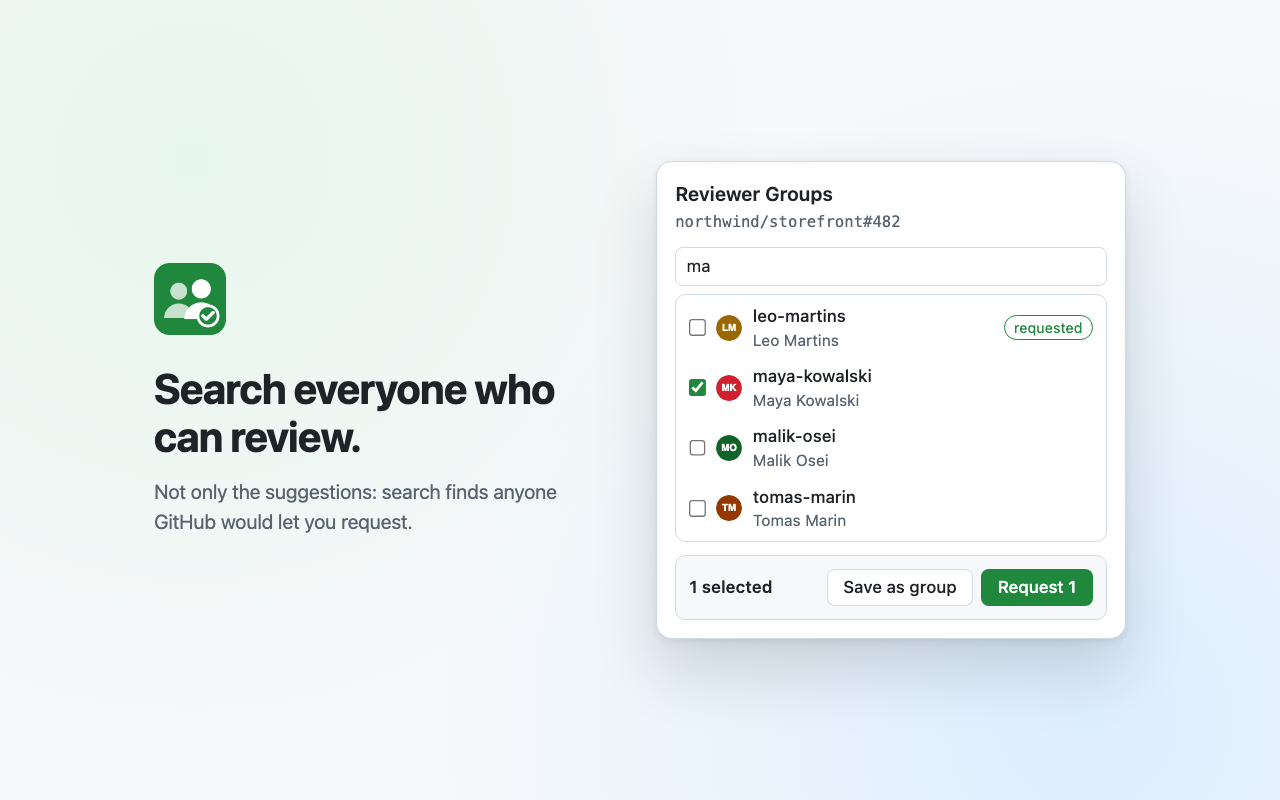
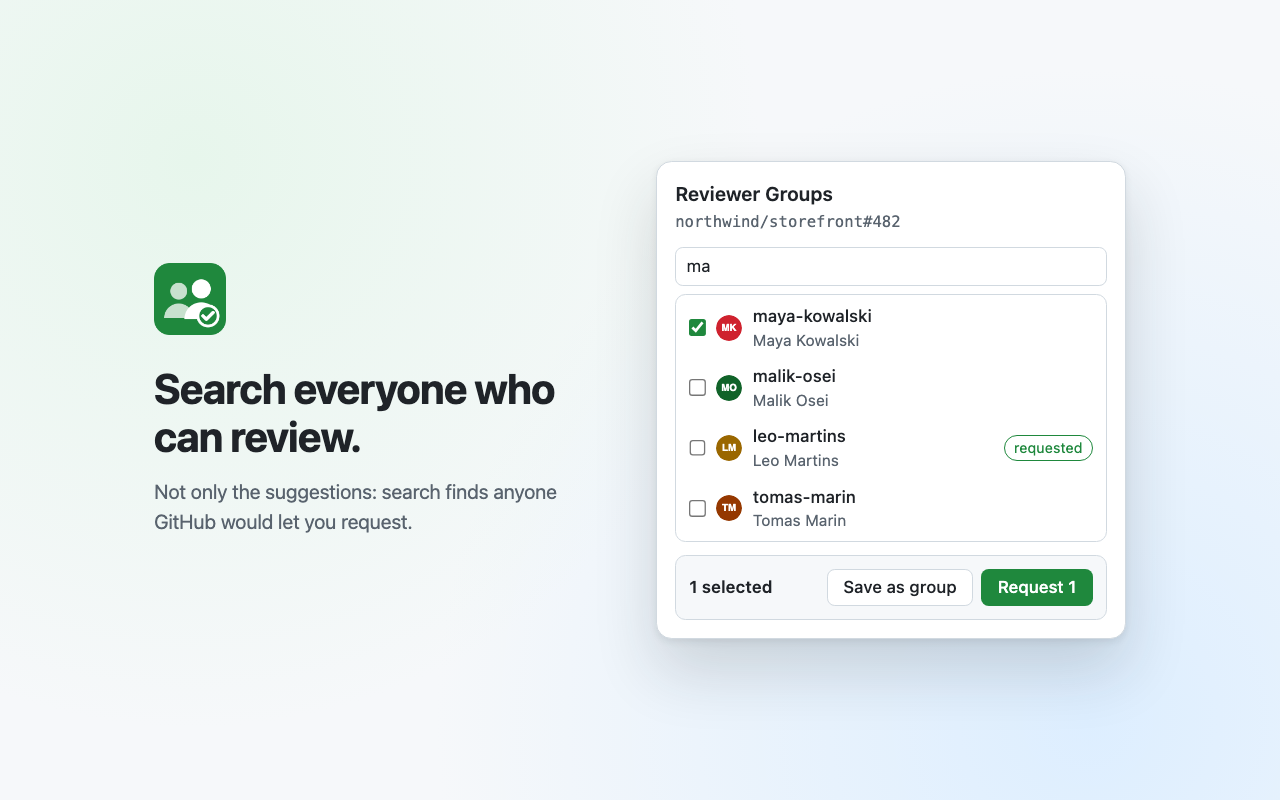
docs: refresh store screenshots with review badges and add a github social preview (#10)
The Chrome Web Store screenshots show the review badges, and the repo
gets a 1280×640 image for GitHub's social preview.

- `screenshots/scenes.tsx`: one invented reviewer carries an `approved`
review, so the tick list shows the review badges next to `requested`. A
`social` scene renders the product name, tagline and repository address
beside the live popup at 1280×640.
- `docs/screenshots/`: the images `pnpm screenshots` generates,
including `social.png`. GitHub shows a social preview only after it is
uploaded in the repository's Settings, so `social.png` also goes there.

All people and repositories in the images are invented.

diff --git a/screenshots/scenes.tsx b/screenshots/scenes.tsx
@@ -1,7 +1,7 @@
 import pWaitFor from "p-wait-for";
 import { createRoot } from "react-dom/client";
 import type { Group } from "../src/groups/group";
-import type { ListReviewersReply, RequestReviewReply, ReviewerCandidate } from "../src/messages";
+import type { ListReviewersReply, RequestReviewReply, ReviewerCandidate, ReviewState } from "../src/messages";
 import { App } from "../src/popup/App";
 import { EMPTY_DIRECTORY } from "../src/popup/directory";
 import type { Draft } from "../src/popup/draft";
@@ -14,6 +14,7 @@ interface Person {
   color: string;
   team?: boolean;
   requested?: boolean;
+  review?: ReviewState;
 }
 
 const avatarFor = ({ name, color, team }: Person): string => {
@@ -33,7 +34,7 @@ const avatarFor = ({ name, color, team }: Person): string => {
 const suggested: Person[] = [
   { login: "river-chen", name: "River Chen", color: "#2f81f7" },
   { login: "priya-nair", name: "Priya Nair", color: "#bf3989" },
-  { login: "sam-okafor", name: "Sam Okafor", color: "#1a7f37" },
+  { login: "sam-okafor", name: "Sam Okafor", color: "#1a7f37", review: "approved" },
   { login: "leo-martins", name: "Leo Martins", color: "#9a6700", requested: true },
   { login: "noor-haddad", name: "Noor Haddad", color: "#8250df" },
   { login: "northwind/frontend", name: "Frontend guild", color: "#0969da", team: true },
@@ -50,7 +51,7 @@ const toCandidate = (person: Person): ReviewerCandidate => ({
   description: person.name,
   avatarUrl: avatarFor(person),
   available: true,
-  reviewState: null,
+  reviewState: person.review ?? null,
   team: person.team ?? false,
   requested: person.requested ?? false,
 });
@@ -131,16 +132,18 @@ const waitForInput = async (label: string): Promise<HTMLInputElement> => {
 
 const settle = () => new Promise((resolve) => setTimeout(resolve, 400));
 
-const scenes: Record<string, Scene> = {
-  pick: {
-    title: "Tick reviewers. Request them all at once.",
-    caption: "Open it on a pull request: everyone GitHub lets you request is listed, teams included.",
-    groups: [],
-    draft: { selection: ["river-chen", "priya-nair", "northwind/frontend"], editingGroupId: null },
-    play: async () => {
-      await waitForButton("Request 3");
-    },
+const pickScene: Scene = {
+  title: "Tick reviewers. Request them all at once.",
+  caption: "Open it on a pull request: everyone GitHub lets you request is listed, teams included.",
+  groups: [],
+  draft: { selection: ["river-chen", "priya-nair", "northwind/frontend"], editingGroupId: null },
+  play: async () => {
+    await waitForButton("Request 3");
   },
+};
+
+const scenes: Record<string, Scene> = {
+  pick: pickScene,
   groups: {
     title: "Save a group. Request it in two clicks.",
     caption: "Click the icon, click the group. Requests go through GitHub's own Reviewers menu.",
@@ -187,13 +190,21 @@ const renderPromo = (root: HTMLElement) => {
   document.body.dataset.ready = "true";
 };
 
-const renderScene = async (root: HTMLElement, scene: Scene) => {
+const socialScene: Scene = {
+  ...pickScene,
+  title: "Reviewer Groups",
+  caption: "Request GitHub pull request reviews from several people at once. No token, no setup.",
+};
+
+const renderScene = async (root: HTMLElement, scene: Scene, layout: "store" | "social") => {
+  document.body.classList.add(layout);
   createRoot(root).render(
     <div className="stage">
       <section className="pitch">
         <img src="../icons/icon-128.png" alt="" width={72} height={72} />
         <h1>{scene.title}</h1>
         <p>{scene.caption}</p>
+        {layout === "social" && <p className="repo">github.com/alex-yanchenko/reviewer-groups</p>}
       </section>
       <section className="window">
         <App
@@ -221,4 +232,5 @@ const root = document.getElementById("root");
 const sceneName = location.hash.slice(1);
 const scene = scenes[sceneName];
 if (root !== null && sceneName === "promo") renderPromo(root);
-else if (root !== null && scene !== undefined) void renderScene(root, scene);
+else if (root !== null && sceneName === "social") void renderScene(root, socialScene, "social");
+else if (root !== null && scene !== undefined) void renderScene(root, scene, "store");

diff --git a/screenshots/scenes.css b/screenshots/scenes.css
@@ -53,6 +53,31 @@ body {
   max-height: 580px;
 }
 
+body.social {
+  height: 640px;
+}
+
+body.social .stage {
+  height: 640px;
+  gap: 64px;
+}
+
+body.social .pitch h1 {
+  font-size: 56px;
+}
+
+body.social .pitch .repo {
+  margin-top: 28px;
+  font-family: ui-monospace, SFMono-Regular, Menlo, monospace;
+  font-size: 16px;
+  color: #1f883d;
+}
+
+body.social .window {
+  zoom: 1.1;
+  max-height: 520px;
+}
+
 body.promo,
 body.promo html {
   width: 440px;
